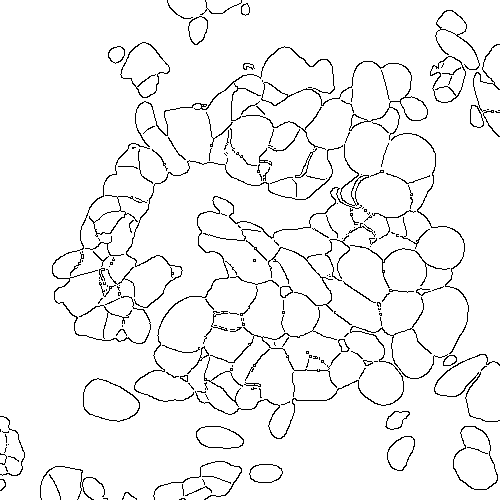
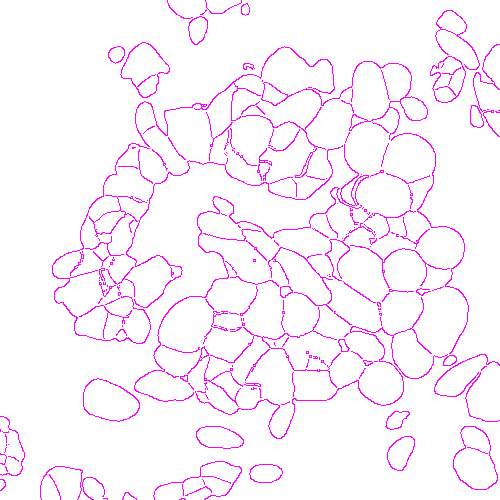
added method to make mask transparent and method to overlay mask onto dots in order to count dots per cell

diff --git a/FISH_analysis/puncta_analysis.py b/FISH_analysis/puncta_analysis.py
@@ -1,6 +1,8 @@
 import matplotlib.pyplot as plt
 import matplotlib.image as mpimg
 import cv2
+from PIL import Image
+from numpy import mask_indices
 
 
 class Puncta_Analysis:
@@ -17,6 +19,7 @@ class Puncta_Analysis:
     def __init__(self, mask, dots):
         self.mask = mask
         self.dots = dots
+        self.mask_edges
     
     def tif_to_png(self):
         """
@@ -40,27 +43,70 @@ class Puncta_Analysis:
         ax = plt.Axes(fig, [0., 0., 1., 1.])
         ax.set_axis_off()
         fig.add_axes(ax)
-        ax.imshow(im_dots, aspect='auto')
+        ax.imshow(im_dots, aspect='auto', cmap='gray_r')
         fig.savefig('analysis_output/dots_plot.png')
-        self.mask = 'analysis_output/dots_plot.png'
+        self.dots = 'analysis_output/dots_plot.png'
     
-    def mask_edges(self, mask):
+    def mask_edges(self):
         """
         Perform edge detection on mask\n
         Used in preparation for overlay of mask onto dots image
-        
-        :param mask: mask of FISH image
-        :type mask: .png
         """
 
         # read mask using opencv
-        cv2_mask = cv2.imread(mask, 0)
+        cv2_mask = cv2.imread(self.mask, 0)
         
         # detect edges and reverse black and white
         edges_detected = cv2.Canny(cv2_mask, 1, 1)
         ret, th2 = cv2.threshold(edges_detected, 100, 255, cv2.THRESH_BINARY_INV)
         
         # save plot of edges only mask
-        plt.imshow(th2, cmap = 'gray')
+        plt.imshow(th2, cmap='spring')
         plt.axis('off')
         plt.savefig('analysis_output/mask_edges.png')
+        self.mask_edges = 'analysis_output/mask_edges.png'
+        
+    def make_transparent(self):
+        """
+        Make edge_detected mask into image with transparent background\n
+        Used in preparation for overlay of mask onto dots image
+        """
+        
+        img = Image.open(self.mask_edges)
+        img = img.convert("RGBA")
+    
+        data = img.getdata()
+    
+        newData = []
+    
+        for item in data:
+            if item[0] == 255 and item[1] == 255 and item[2] == 0:
+                newData.append((255, 255, 255, 0))
+            else:
+                newData.append(item)
+    
+        img.putdata(newData)
+        img.save('analysis_output/mask_edges.png', "PNG")
+        self.mask_edges = 'analysis_output/mask_edges.png'
+        
+    def overlay(self):
+        """
+        Overlay mask with only edges on top of image of thresholded dots\n
+        Will be able to perform analyses on outputed image
+        """
+        
+        # get the edges_only mask and make transparent
+        self.mask_edges()
+        self.make_transparent()
+        
+        # open the image of the dots
+        img1 = Image.open(self.dots)
+        
+        # open the image of the mask
+        img2 = Image.open(self.mask_edges)
+        
+        # paste the mask on top of the dots
+        img1.paste(img2, (0,0), mask = img2)
+        
+        # save the image
+        img1.save('analysis_output/overlay.png', "PNG")

diff --git a/analysis_main.py b/analysis_main.py
@@ -3,4 +3,4 @@ from FISH_analysis import Puncta_Analysis
 analysis = Puncta_Analysis('Images/SOX2_(G)._PAX6_(R)._PAX7_(FR)_40x_Spinal_Cords_Uninjured_001/Input/MASK_Copy of MAX_C4-SOX2_(G)._PAX6_(R)._PAX7_(FR)_40x_Spinal_Cords_Uninjured_001.tif', 'Images/SOX2_(G)._PAX6_(R)._PAX7_(FR)_40x_Spinal_Cords_Uninjured_001/Input/C3 (SOX2) thrsholded dots.tif')
 analysis.tif_to_png()
 
-analysis.mask_edges('mask_plot.png')
+analysis.overlay()
